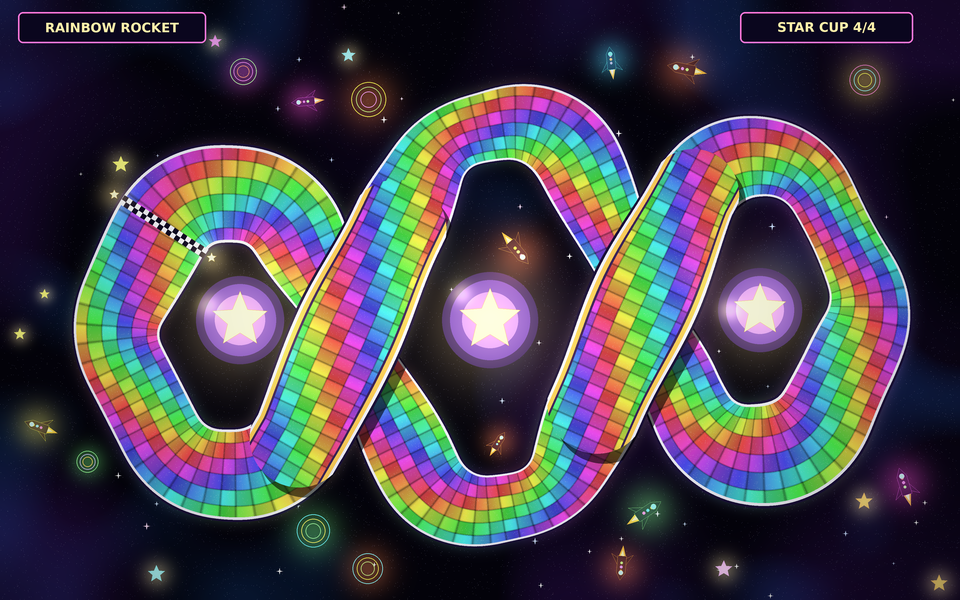
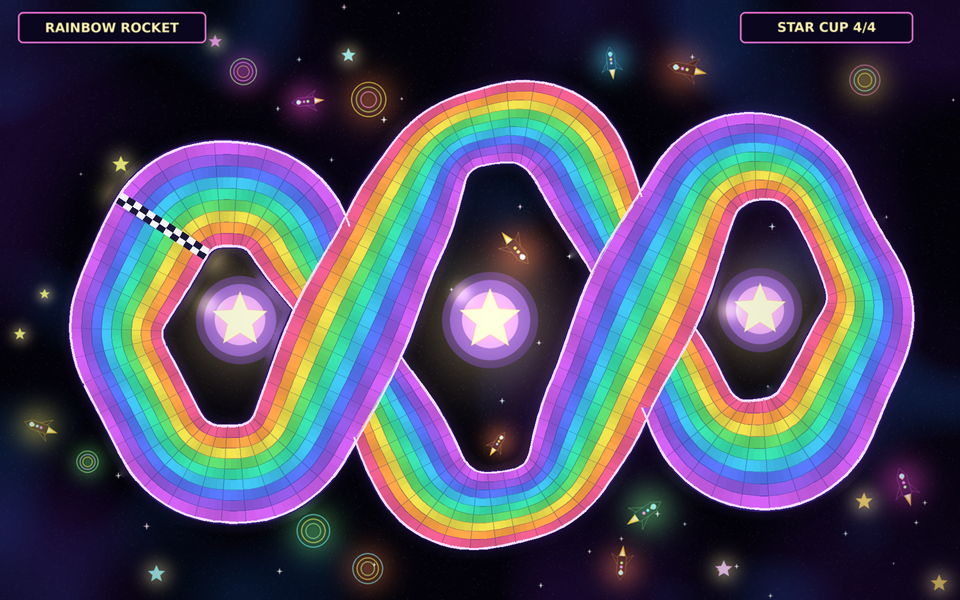
rainbow road fix

diff --git a/WasteGame/wasteKart.py b/WasteGame/wasteKart.py
@@ -1,10 +1,11 @@
-"""WasteKart 2.7.1 - Rainbow Rocket, Star Cup 4/4, layered Cog Chompers and scaling.
+"""WasteKart 2.7.2 - Rainbow Rocket, Star Cup 4/4, layered Cog Chompers and scaling.
 
 Pygame-ce / Pygbag compatible GameHub entry point:
     await wasteKart.main(screen, clock)
 
 Original four-cup, sixteen-course art resides in assets/WasteKart.
-Races retain all original courses. Stars 1-3 have custom sprite hazards.
+Races retain all original courses. Rainbow Rocket bridges use continuous road art.
+Stars 1-3 have custom sprite hazards.
 """
 import asyncio
 import bisect
